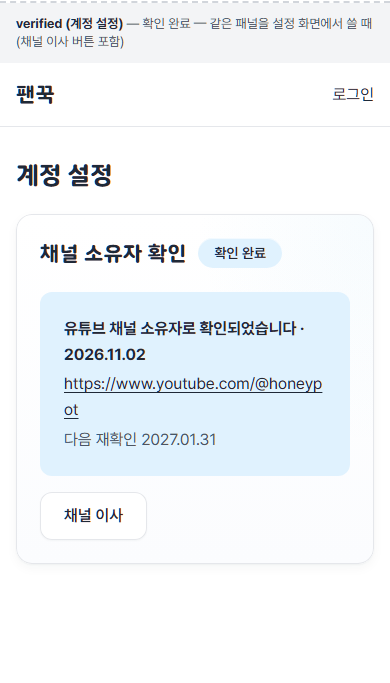
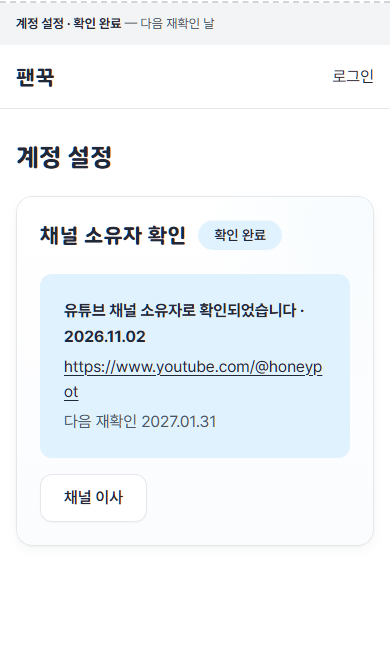
docs(fankkuk): 채널 확인 시안 새로 짬 — 팬꾹 링크는 4단계에서만 만들기, 옛 구역·캡처 정리

diff --git a/projects/fankkuk/docs/design/mockups/channel-link-verify-20261102/index.html b/projects/fankkuk/docs/design/mockups/channel-link-verify-20261102/index.html
@@ -1,28 +1,23 @@
 <!doctype html>
 <html lang="ko"><head><meta charset="utf-8"><meta name="viewport" content="width=device-width,initial-scale=1">
-<title>채널 확인 — 선물 링크 게시 확인 시안 (2026-11-02)</title>
+<title>채널 확인 시안 (2026-11-02)</title>
 <link rel="stylesheet" href="https://cdn.jsdelivr.net/gh/orioncactus/pretendard@v1.3.9/dist/web/variable/pretendardvariable.min.css">
 <link rel="stylesheet" href="styles.css"></head><body>
-<!-- 근거: docs/ux/pages/signup.md · handle.md 「2026-11-02 채널 확인 개정안」. 쪽지 코드 칸 없음. 새 토큰·부품 없음(styles.css 는 v43 가입 시안 CSS 를 그대로 복사). 운영자 화면은 admin.html -->
-<header class="v-head"><h1 class="t-title">채널 확인 — 선물 링크 게시 확인</h1><ol><li><a href="#signup-2">가입 2단계</a></li><li><a href="#link-needed">link_needed (계정 설정)</a></li><li><a href="#idle-empty">확인 전 (주소 전)</a></li><li><a href="#idle-youtube">확인 전 (주소 뒤)</a></li><li><a href="#waiting">요청 완료</a></li><li><a href="#rejected">rejected</a></li><li><a href="#verified">verified (가입 4단계)</a></li><li><a href="#locked">locked</a></li><li><a href="#acct-verified">verified (계정 설정)</a></li><li><a href="#acct-recheck">recheck_missing</a></li><li><a href="#profile-verifying">verifying (선물 링크 페이지 fankkuk.com/haru)</a></li><li><a href="admin.html">운영자 화면(admin.html)</a></li></ol></header>
-<section class="v-state" id="signup-2"><span class="v-label"><b>가입 2단계 (크리에이터)</b> — 바뀌는 칸만: 칸 설명은 소제목 바로 아래(입력 칸 위), 꼴 규칙은 입력 칸 아래 · 공개 이름 칸 없음(닉네임으로 합침 — 다음 작업) · 팬꾹 링크 칸 새로</span><div class="v-bar"><b>팬꾹</b><span>로그인</span></div><main><section class="su-page"><div class="container auth su-box"><div class="head"><h1 class="t-title">회원가입</h1></div><nav class="su-steps-wrap" aria-label="가입 단계"><ol class="su-steps su-four"><li><span class="su-st is-done"><span class="su-dot" aria-hidden="true"><svg width="16" height="16" viewBox="0 0 24 24" aria-hidden="true"><path d="m5 12.5 4.5 4.5L19 7" fill="none" stroke="currentColor" stroke-width="3.5" stroke-linecap="round" stroke-linejoin="round"/></svg></span><span class="su-lbl">유형 선택</span></span></li><li><span class="su-st" aria-current="step"><span class="su-dot" aria-hidden="true">2</span><span class="su-lbl">정보 입력</span></span></li><li><span class="su-st"><span class="su-dot" aria-hidden="true">3</span><span class="su-lbl">휴대폰 확인</span></span></li><li><span class="su-st"><span class="su-dot" aria-hidden="true">4</span><span class="su-lbl">채널 확인</span></span></li><li><span class="su-st"><span class="su-dot" aria-hidden="true">5</span><span class="su-lbl">승인 서명</span></span></li></ol></nav><form class="card" onsubmit="return false"><fieldset class="su-step"><legend class="sr-only">정보 입력</legend>
-<h3 class="t-card" style="margin-bottom:16px">계정</h3><div class="form">
+<!-- 2026-11-02 새로 짬: 옛 구역 없음. 팬꾹 링크는 4단계에서만 만든다(2단계 칸 없음). 운영자 화면은 admin.html -->
+<header class="v-head"><h1 class="t-title">채널 확인 시안</h1><ol><li><a href="#signup-2">가입 2단계</a></li><li><a href="#s4-make">4단계 · 링크 만들기 전</a></li><li><a href="#s4-ready">4단계 · 요청 전</a></li><li><a href="#s4-sent">4단계 · 요청 완료</a></li><li><a href="#s4-rejected">4단계 · 반려</a></li><li><a href="#s4-locked">4단계 · 더 요청 못 함</a></li><li><a href="#acct-verified">계정 설정 · 확인 완료</a></li><li><a href="#acct-recheck">계정 설정 · 링크 다시 확인</a></li><li><a href="#profile-verifying">크리에이터 페이지 · 채널 확인 중</a></li><li><a href="admin.html">운영자 화면</a></li></ol></header>
+<section class="v-state" id="signup-2"><span class="v-label"><b>가입 2단계 (크리에이터)</b> — 바뀌는 칸만. 칸 설명은 소제목 아래, 규칙은 입력 칸 아래. 팬꾹 링크는 여기서 만들지 않는다(4단계)</span><div class="v-bar"><b>팬꾹</b><span>로그인</span></div><main><section class="su-page"><div class="container auth su-box"><div class="head"><h1 class="t-title">회원가입</h1></div><nav class="su-steps-wrap" aria-label="가입 단계"><ol class="su-steps su-four"><li><span class="su-st is-done"><span class="su-dot" aria-hidden="true"><svg width="16" height="16" viewBox="0 0 24 24" aria-hidden="true"><path d="m5 12.5 4.5 4.5L19 7" fill="none" stroke="currentColor" stroke-width="3.5" stroke-linecap="round" stroke-linejoin="round"/></svg></span><span class="su-lbl">유형 선택</span></span></li><li><span class="su-st" aria-current="step"><span class="su-dot" aria-hidden="true">2</span><span class="su-lbl">정보 입력</span></span></li><li><span class="su-st"><span class="su-dot" aria-hidden="true">3</span><span class="su-lbl">휴대폰 확인</span></span></li><li><span class="su-st"><span class="su-dot" aria-hidden="true">4</span><span class="su-lbl">채널 확인</span></span></li><li><span class="su-st"><span class="su-dot" aria-hidden="true">5</span><span class="su-lbl">승인 서명</span></span></li></ol></nav><form class="card" onsubmit="return false"><fieldset class="su-step"><legend class="sr-only">정보 입력</legend><h3 class="t-card" style="margin-bottom:16px">계정</h3><div class="form">
 <div><label class="label" for="s2-id">아이디</label><p class="v-desc">로그인에 사용하는 아이디입니다. 다른 사람에게는 보이지 않습니다.</p><input class="field" id="s2-id" value="haru_game"><p class="hint">영문 소문자·숫자·밑줄(_) 4~20자 · 가입 후 변경할 수 없습니다.</p></div>
 <div><label class="label" for="s2-nick">닉네임</label><p class="v-desc">팬꾹에서 다른 사람에게 표시되는 이름입니다.</p><input class="field" id="s2-nick" value="하루"><p class="hint">최대 12자 · 이미 사용 중인 닉네임은 사용할 수 없습니다.</p></div>
 <p class="hint" style="margin:0">이메일·비밀번호는 지금 문구를 유지합니다.</p></div>
 <h3 class="t-card" style="margin:32px 0 16px">채널 정보</h3><div class="form">
 <div><label class="label" for="s2-ch">채널 이름</label><p class="v-desc">방송 플랫폼에 표시된 채널 이름을 그대로 입력해 주세요. 채널 확인 시 일치하는지 확인합니다.</p><input class="field" id="s2-ch" placeholder="예: 꿀단지TV" value="하루의 놀이터"></div>
-<div><label class="label" for="s2-link">팬꾹 링크</label><p class="v-desc">외부에서 크리에이터님의 팬꾹으로 안내할 때 사용할 주소입니다.</p><div class="vp-handle"><span class="pre">fankkuk.com/</span><input class="field" id="s2-link" placeholder="haru" value="haru"></div><p class="hint">로그인 아이디와 다르게 정해 주세요. 가입 후 30일 동안은 변경할 수 없습니다.</p></div>
-<p class="hint" style="margin:0">팬덤 이름·태그는 지금 문구를 유지합니다.</p></div>
-</fieldset><div class="su-step-actions"><button class="btn btn--line" type="button">이전</button><button class="btn su-next" type="submit">다음</button></div></form></div></section></main></section>
-<section class="v-state" id="link-needed"><span class="v-label"><b>link_needed (계정 설정)</b> — 가입 2단계에서 팬꾹 링크를 만들기 전에 가입한 기존 크리에이터만. 새로 가입하는 사람은 가입 4단계에서 이 상태를 보지 않는다. 「만들기」를 누르면 「정하면 30일 동안 바꿀 수 없어요」 확인 창(설정 화면과 같음)</span><div class="v-bar"><b>팬꾹</b><span>로그인</span></div><main><div class="v-wrap720"><div class="head" style="margin-bottom:24px"><h1 class="t-title">계정 설정</h1></div><section class="card"><fieldset class="su-step" style="margin:0"><legend class="sr-only">채널 소유자 확인</legend><div class="vp-head"><h2 class="t-card">채널 소유자 확인</h2><span class="tag">확인 전</span></div><p class="sub su-lead">다른 사람이 내 채널로 가입하지 못하도록, 채널 소유자를 확인해 주세요.<br>팬이 선물을 보낼 수 있게 팬꾹 링크를 채널 소개에 올려 주세요. 올라와 있으면 채널 확인도 같이 끝나요.</p><div class="vp-box"><label class="vp-label" for="h0">내 팬꾹 링크</label><div class="vp-handle"><span class="pre">fankkuk.com/</span><input class="field" id="h0" placeholder="haru"><button class="btn btn--sm" type="button">만들기</button></div></div></fieldset></section></div></main></section>
-<section class="v-state" id="idle-empty"><span class="v-label"><b>idle (1/2)</b> — 확인 전 — ① 2단계 채널 이름 ② 팬꾹 링크 올리기(예시) ③ 채널 주소 ④ 요청. 주소를 넣기 전에는 요청 버튼이 꺼짐</span><div class="v-bar"><b>팬꾹</b><span>로그인</span></div><main><section class="su-page"><div class="container auth su-box"><div class="head"><h1 class="t-title">회원가입</h1></div><nav class="su-steps-wrap" aria-label="가입 단계"><ol class="su-steps su-four"><li><span class="su-st is-done"><span class="su-dot" aria-hidden="true"><svg width="16" height="16" viewBox="0 0 24 24" aria-hidden="true"><path d="m5 12.5 4.5 4.5L19 7" fill="none" stroke="currentColor" stroke-width="3.5" stroke-linecap="round" stroke-linejoin="round"/></svg></span><span class="su-lbl">유형 선택</span></span></li><li><span class="su-st is-done"><span class="su-dot" aria-hidden="true"><svg width="16" height="16" viewBox="0 0 24 24" aria-hidden="true"><path d="m5 12.5 4.5 4.5L19 7" fill="none" stroke="currentColor" stroke-width="3.5" stroke-linecap="round" stroke-linejoin="round"/></svg></span><span class="su-lbl">정보 입력</span></span></li><li><span class="su-st is-done"><span class="su-dot" aria-hidden="true"><svg width="16" height="16" viewBox="0 0 24 24" aria-hidden="true"><path d="m5 12.5 4.5 4.5L19 7" fill="none" stroke="currentColor" stroke-width="3.5" stroke-linecap="round" stroke-linejoin="round"/></svg></span><span class="su-lbl">휴대폰 확인</span></span></li><li><span class="su-st" aria-current="step"><span class="su-dot" aria-hidden="true">4</span><span class="su-lbl">채널 확인</span></span></li><li><span class="su-st"><span class="su-dot" aria-hidden="true">5</span><span class="su-lbl">승인 서명</span></span></li></ol></nav><form class="card" onsubmit="return false"><fieldset class="su-step"><legend class="sr-only">채널 소유자 확인</legend><div class="vp-head"><h2 class="t-card">채널 소유자 확인</h2><span class="tag ">확인 전</span></div><p class="sub su-lead">다른 사람이 내 채널로 가입하지 못하도록, 채널 소유자를 확인해 주세요.</p><div class="vp-kv v-name"><span class="k">채널 이름</span><strong>하루의 놀이터</strong></div><div class="v-step"><p class="vp-label"><span class="v-no">1</span>채널 소개에 팬꾹 링크를 올려 주세요</p><div class="vp-box"><div class="vp-code-row"><span class="vp-link">fankkuk.com/haru</span><button class="btn btn--line btn--sm" type="button">복사</button></div><div class="v-example"><span class="k">예시</span><p>게임 방송하는 하루입니다. 선물은 여기로 보내 주세요<br><b>fankkuk.com/haru</b></p></div></div></div><div class="v-step"><label class="vp-label" for="a1"><span class="v-no">2</span>팬꾹 링크를 올린 채널 주소를 입력해 주세요</label><input class="field" id="a1" inputmode="url" placeholder="https://www.youtube.com/@핸들" value=""><ul class="vp-examples"><li>유튜브 <code>https://www.youtube.com/@핸들</code></li><li>치지직 <code>https://chzzk.naver.com/채널ID</code></li><li>SOOP <code>https://www.sooplive.co.kr/station/아이디</code></li></ul></div><div class="vp-steps"><button class="btn" type="button" aria-disabled="true">채널 확인 요청</button></div></fieldset><div class="v-kakao-actions v-three"><button class="btn btn--line" type="button">이전</button><button class="btn btn--line" type="button">나중에 하기</button><button class="btn su-next v-main" type="submit" aria-disabled="true">다음</button></div></form></div></section></main></section>
-<section class="v-state" id="idle-youtube"><span class="v-label"><b>idle (2/2)</b> — 확인 전 — 주소를 넣으면 요청 버튼이 켜짐</span><div class="v-bar"><b>팬꾹</b><span>로그인</span></div><main><section class="su-page"><div class="container auth su-box"><div class="head"><h1 class="t-title">회원가입</h1></div><nav class="su-steps-wrap" aria-label="가입 단계"><ol class="su-steps su-four"><li><span class="su-st is-done"><span class="su-dot" aria-hidden="true"><svg width="16" height="16" viewBox="0 0 24 24" aria-hidden="true"><path d="m5 12.5 4.5 4.5L19 7" fill="none" stroke="currentColor" stroke-width="3.5" stroke-linecap="round" stroke-linejoin="round"/></svg></span><span class="su-lbl">유형 선택</span></span></li><li><span class="su-st is-done"><span class="su-dot" aria-hidden="true"><svg width="16" height="16" viewBox="0 0 24 24" aria-hidden="true"><path d="m5 12.5 4.5 4.5L19 7" fill="none" stroke="currentColor" stroke-width="3.5" stroke-linecap="round" stroke-linejoin="round"/></svg></span><span class="su-lbl">정보 입력</span></span></li><li><span class="su-st is-done"><span class="su-dot" aria-hidden="true"><svg width="16" height="16" viewBox="0 0 24 24" aria-hidden="true"><path d="m5 12.5 4.5 4.5L19 7" fill="none" stroke="currentColor" stroke-width="3.5" stroke-linecap="round" stroke-linejoin="round"/></svg></span><span class="su-lbl">휴대폰 확인</span></span></li><li><span class="su-st" aria-current="step"><span class="su-dot" aria-hidden="true">4</span><span class="su-lbl">채널 확인</span></span></li><li><span class="su-st"><span class="su-dot" aria-hidden="true">5</span><span class="su-lbl">승인 서명</span></span></li></ol></nav><form class="card" onsubmit="return false"><fieldset class="su-step"><legend class="sr-only">채널 소유자 확인</legend><div class="vp-head"><h2 class="t-card">채널 소유자 확인</h2><span class="tag ">확인 전</span></div><p class="sub su-lead">다른 사람이 내 채널로 가입하지 못하도록, 채널 소유자를 확인해 주세요.</p><div class="vp-kv v-name"><span class="k">채널 이름</span><strong>하루의 놀이터</strong></div><div class="v-step"><p class="vp-label"><span class="v-no">1</span>채널 소개에 팬꾹 링크를 올려 주세요</p><div class="vp-box"><div class="vp-code-row"><span class="vp-link">fankkuk.com/haru</span><button class="btn btn--line btn--sm" type="button">복사</button></div><div class="v-example"><span class="k">예시</span><p>게임 방송하는 하루입니다. 선물은 여기로 보내 주세요<br><b>fankkuk.com/haru</b></p></div></div></div><div class="v-step"><label class="vp-label" for="a2"><span class="v-no">2</span>팬꾹 링크를 올린 채널 주소를 입력해 주세요</label><input class="field" id="a2" inputmode="url" placeholder="https://www.youtube.com/@핸들" value="https://www.youtube.com/@honeypot"><ul class="vp-examples"><li>유튜브 <code>https://www.youtube.com/@핸들</code></li><li>치지직 <code>https://chzzk.naver.com/채널ID</code></li><li>SOOP <code>https://www.sooplive.co.kr/station/아이디</code></li></ul></div><div class="vp-steps"><button class="btn" type="button">채널 확인 요청</button></div></fieldset><div class="v-kakao-actions v-three"><button class="btn btn--line" type="button">이전</button><button class="btn btn--line" type="button">나중에 하기</button><button class="btn su-next v-main" type="submit" aria-disabled="true">다음</button></div></form></div></section></main></section>
-<section class="v-state" id="waiting"><span class="v-label"><b>waiting</b> — 채널 확인 요청 완료 — 이 단계는 끝나서 「이전 | 다음」만(나중에 하기 없음). 운영자가 확인하면 확인 완료로 바뀐다</span><div class="v-bar"><b>팬꾹</b><span>로그인</span></div><main><section class="su-page"><div class="container auth su-box"><div class="head"><h1 class="t-title">회원가입</h1></div><nav class="su-steps-wrap" aria-label="가입 단계"><ol class="su-steps su-four"><li><span class="su-st is-done"><span class="su-dot" aria-hidden="true"><svg width="16" height="16" viewBox="0 0 24 24" aria-hidden="true"><path d="m5 12.5 4.5 4.5L19 7" fill="none" stroke="currentColor" stroke-width="3.5" stroke-linecap="round" stroke-linejoin="round"/></svg></span><span class="su-lbl">유형 선택</span></span></li><li><span class="su-st is-done"><span class="su-dot" aria-hidden="true"><svg width="16" height="16" viewBox="0 0 24 24" aria-hidden="true"><path d="m5 12.5 4.5 4.5L19 7" fill="none" stroke="currentColor" stroke-width="3.5" stroke-linecap="round" stroke-linejoin="round"/></svg></span><span class="su-lbl">정보 입력</span></span></li><li><span class="su-st is-done"><span class="su-dot" aria-hidden="true"><svg width="16" height="16" viewBox="0 0 24 24" aria-hidden="true"><path d="m5 12.5 4.5 4.5L19 7" fill="none" stroke="currentColor" stroke-width="3.5" stroke-linecap="round" stroke-linejoin="round"/></svg></span><span class="su-lbl">휴대폰 확인</span></span></li><li><span class="su-st" aria-current="step"><span class="su-dot" aria-hidden="true">4</span><span class="su-lbl">채널 확인</span></span></li><li><span class="su-st"><span class="su-dot" aria-hidden="true">5</span><span class="su-lbl">승인 서명</span></span></li></ol></nav><form class="card" onsubmit="return false"><fieldset class="su-step"><legend class="sr-only">채널 소유자 확인</legend><div class="vp-head"><h2 class="t-card">채널 소유자 확인</h2><span class="tag tag--warn">확인 대기</span></div><div class="vp-box v-done-box"><p class="vp-label" style="display:flex;align-items:center;gap:6px"><svg width="20" height="20" viewBox="0 0 24 24" aria-hidden="true"><circle cx="12" cy="12" r="10" fill="none" stroke="currentColor" stroke-width="2"/><path d="m7.5 12.5 3 3 6-6.5" fill="none" stroke="currentColor" stroke-width="2.4" stroke-linecap="round" stroke-linejoin="round"/></svg>채널 확인 요청을 보냈습니다</p><p>운영자가 채널을 확인하면 채널 확인이 완료됩니다.</p><div class="vp-kv"><span class="k">채널 이름</span><strong>하루의 놀이터</strong></div><div class="vp-kv"><span class="k">채널 주소</span><strong style="overflow-wrap:anywhere">https://www.youtube.com/@honeypot</strong></div><div class="vp-kv"><span class="k">팬꾹 링크</span><strong>fankkuk.com/haru</strong></div><div><button class="btn btn--text btn--sm" type="button">요청 취소</button></div></div></fieldset><div class="su-step-actions"><button class="btn btn--line" type="button">이전</button><button class="btn su-next" type="submit">다음</button></div></form></div></section></main></section>
-<section class="v-state" id="rejected"><span class="v-label"><b>rejected</b> — 반려 — 사유 한 줄 + 남은 요청 횟수, 아래는 확인 전과 같은 순서</span><div class="v-bar"><b>팬꾹</b><span>로그인</span></div><main><section class="su-page"><div class="container auth su-box"><div class="head"><h1 class="t-title">회원가입</h1></div><nav class="su-steps-wrap" aria-label="가입 단계"><ol class="su-steps su-four"><li><span class="su-st is-done"><span class="su-dot" aria-hidden="true"><svg width="16" height="16" viewBox="0 0 24 24" aria-hidden="true"><path d="m5 12.5 4.5 4.5L19 7" fill="none" stroke="currentColor" stroke-width="3.5" stroke-linecap="round" stroke-linejoin="round"/></svg></span><span class="su-lbl">유형 선택</span></span></li><li><span class="su-st is-done"><span class="su-dot" aria-hidden="true"><svg width="16" height="16" viewBox="0 0 24 24" aria-hidden="true"><path d="m5 12.5 4.5 4.5L19 7" fill="none" stroke="currentColor" stroke-width="3.5" stroke-linecap="round" stroke-linejoin="round"/></svg></span><span class="su-lbl">정보 입력</span></span></li><li><span class="su-st is-done"><span class="su-dot" aria-hidden="true"><svg width="16" height="16" viewBox="0 0 24 24" aria-hidden="true"><path d="m5 12.5 4.5 4.5L19 7" fill="none" stroke="currentColor" stroke-width="3.5" stroke-linecap="round" stroke-linejoin="round"/></svg></span><span class="su-lbl">휴대폰 확인</span></span></li><li><span class="su-st" aria-current="step"><span class="su-dot" aria-hidden="true">4</span><span class="su-lbl">채널 확인</span></span></li><li><span class="su-st"><span class="su-dot" aria-hidden="true">5</span><span class="su-lbl">승인 서명</span></span></li></ol></nav><form class="card" onsubmit="return false"><fieldset class="su-step"><legend class="sr-only">채널 소유자 확인</legend><div class="vp-head"><h2 class="t-card">채널 소유자 확인</h2><span class="tag tag--danger">반려</span></div><div class="vp-box" style="margin-bottom:24px"><p class="vp-rej"><svg width="20" height="20" viewBox="0 0 24 24" aria-hidden="true"><circle cx="12" cy="12" r="10" fill="none" stroke="currentColor" stroke-width="2"/><path d="M12 7v6M12 16.5v.5" stroke="currentColor" stroke-width="2.4" stroke-linecap="round"/></svg>팬꾹 링크를 찾지 못함</p><p class="sub">남은 요청 횟수: 2회</p></div><div class="vp-kv v-name"><span class="k">채널 이름</span><strong>하루의 놀이터</strong></div><div class="v-step"><p class="vp-label"><span class="v-no">1</span>채널 소개에 팬꾹 링크를 올려 주세요</p><div class="vp-box"><div class="vp-code-row"><span class="vp-link">fankkuk.com/haru</span><button class="btn btn--line btn--sm" type="button">복사</button></div><div class="v-example"><span class="k">예시</span><p>게임 방송하는 하루입니다. 선물은 여기로 보내 주세요<br><b>fankkuk.com/haru</b></p></div></div></div><div class="v-step"><label class="vp-label" for="a4"><span class="v-no">2</span>팬꾹 링크를 올린 채널 주소를 입력해 주세요</label><input class="field" id="a4" inputmode="url" placeholder="https://www.youtube.com/@핸들" value="https://www.youtube.com/@honeypot"><ul class="vp-examples"><li>유튜브 <code>https://www.youtube.com/@핸들</code></li><li>치지직 <code>https://chzzk.naver.com/채널ID</code></li><li>SOOP <code>https://www.sooplive.co.kr/station/아이디</code></li></ul></div><div class="vp-steps"><button class="btn" type="button">다시 채널 확인 요청</button></div></fieldset><div class="v-kakao-actions v-three"><button class="btn btn--line" type="button">이전</button><button class="btn btn--line" type="button">나중에 하기</button><button class="btn su-next v-main" type="submit" aria-disabled="true">다음</button></div></form></div></section></main></section>
-<section class="v-state" id="verified"><span class="v-label"><b>verified (가입 4단계)</b> — 확인 완료 — 「다음」이 켜짐, 다음 재확인 날 한 줄</span><div class="v-bar"><b>팬꾹</b><span>로그인</span></div><main><section class="su-page"><div class="container auth su-box"><div class="head"><h1 class="t-title">회원가입</h1></div><nav class="su-steps-wrap" aria-label="가입 단계"><ol class="su-steps su-four"><li><span class="su-st is-done"><span class="su-dot" aria-hidden="true"><svg width="16" height="16" viewBox="0 0 24 24" aria-hidden="true"><path d="m5 12.5 4.5 4.5L19 7" fill="none" stroke="currentColor" stroke-width="3.5" stroke-linecap="round" stroke-linejoin="round"/></svg></span><span class="su-lbl">유형 선택</span></span></li><li><span class="su-st is-done"><span class="su-dot" aria-hidden="true"><svg width="16" height="16" viewBox="0 0 24 24" aria-hidden="true"><path d="m5 12.5 4.5 4.5L19 7" fill="none" stroke="currentColor" stroke-width="3.5" stroke-linecap="round" stroke-linejoin="round"/></svg></span><span class="su-lbl">정보 입력</span></span></li><li><span class="su-st is-done"><span class="su-dot" aria-hidden="true"><svg width="16" height="16" viewBox="0 0 24 24" aria-hidden="true"><path d="m5 12.5 4.5 4.5L19 7" fill="none" stroke="currentColor" stroke-width="3.5" stroke-linecap="round" stroke-linejoin="round"/></svg></span><span class="su-lbl">휴대폰 확인</span></span></li><li><span class="su-st" aria-current="step"><span class="su-dot" aria-hidden="true">4</span><span class="su-lbl">채널 확인</span></span></li><li><span class="su-st"><span class="su-dot" aria-hidden="true">5</span><span class="su-lbl">승인 서명</span></span></li></ol></nav><form class="card" onsubmit="return false"><fieldset class="su-step"><legend class="sr-only">채널 소유자 확인</legend><div class="vp-head"><h2 class="t-card">채널 소유자 확인</h2><span class="tag tag--success">확인 완료</span></div><div class="vp-done"><strong>유튜브 채널 소유자로 확인되었습니다 · 2026.11.02</strong><a href="#">https://www.youtube.com/@honeypot</a><span class="sub">다음 재확인 2027.01.31</span></div></fieldset><div class="su-step-actions"><button class="btn btn--line" type="button">이전</button><button class="btn su-next" type="submit">다음</button></div></form></div></section></main></section>
-<section class="v-state" id="locked"><span class="v-label"><b>locked</b> — 그 채널로 끝난 요청 3번 — 더 요청할 수 없음</span><div class="v-bar"><b>팬꾹</b><span>로그인</span></div><main><section class="su-page"><div class="container auth su-box"><div class="head"><h1 class="t-title">회원가입</h1></div><nav class="su-steps-wrap" aria-label="가입 단계"><ol class="su-steps su-four"><li><span class="su-st is-done"><span class="su-dot" aria-hidden="true"><svg width="16" height="16" viewBox="0 0 24 24" aria-hidden="true"><path d="m5 12.5 4.5 4.5L19 7" fill="none" stroke="currentColor" stroke-width="3.5" stroke-linecap="round" stroke-linejoin="round"/></svg></span><span class="su-lbl">유형 선택</span></span></li><li><span class="su-st is-done"><span class="su-dot" aria-hidden="true"><svg width="16" height="16" viewBox="0 0 24 24" aria-hidden="true"><path d="m5 12.5 4.5 4.5L19 7" fill="none" stroke="currentColor" stroke-width="3.5" stroke-linecap="round" stroke-linejoin="round"/></svg></span><span class="su-lbl">정보 입력</span></span></li><li><span class="su-st is-done"><span class="su-dot" aria-hidden="true"><svg width="16" height="16" viewBox="0 0 24 24" aria-hidden="true"><path d="m5 12.5 4.5 4.5L19 7" fill="none" stroke="currentColor" stroke-width="3.5" stroke-linecap="round" stroke-linejoin="round"/></svg></span><span class="su-lbl">휴대폰 확인</span></span></li><li><span class="su-st" aria-current="step"><span class="su-dot" aria-hidden="true">4</span><span class="su-lbl">채널 확인</span></span></li><li><span class="su-st"><span class="su-dot" aria-hidden="true">5</span><span class="su-lbl">승인 서명</span></span></li></ol></nav><form class="card" onsubmit="return false"><fieldset class="su-step"><legend class="sr-only">채널 소유자 확인</legend><div class="vp-head"><h2 class="t-card">채널 소유자 확인</h2><span class="tag">신청 마감</span></div><div class="v-locked"><p class="vp-label">이 채널로는 더 신청할 수 없어요. 1:1 문의로 알려 주세요</p><div><button class="btn btn--line" type="button">1:1 문의</button></div></div></fieldset><div class="v-kakao-actions v-three"><button class="btn btn--line" type="button">이전</button><button class="btn btn--line" type="button">나중에 하기</button><button class="btn su-next v-main" type="submit" aria-disabled="true">다음</button></div></form></div></section></main></section>
-<section class="v-state" id="acct-verified"><span class="v-label"><b>verified (계정 설정)</b> — 확인 완료 — 같은 패널을 설정 화면에서 쓸 때(채널 이사 버튼 포함)</span><div class="v-bar"><b>팬꾹</b><span>로그인</span></div><main><div class="v-wrap720"><div class="head" style="margin-bottom:24px"><h1 class="t-title">계정 설정</h1></div><section class="card"><fieldset class="su-step" style="margin:0"><legend class="sr-only">채널 소유자 확인</legend><div class="vp-head"><h2 class="t-card">채널 소유자 확인</h2><span class="tag tag--success">확인 완료</span></div><div class="vp-done"><strong>유튜브 채널 소유자로 확인되었습니다 · 2026.11.02</strong><a href="#">https://www.youtube.com/@honeypot</a><span class="sub">다음 재확인 2027.01.31</span></div><div style="margin-top:16px"><button class="btn btn--line" type="button">채널 이사</button></div></fieldset></section></div></main></section>
-<section class="v-state" id="acct-recheck"><span class="v-label"><b>recheck_missing</b> — 재확인에서 링크를 못 찾음(유예 중) — 계정 설정</span><div class="v-bar"><b>팬꾹</b><span>로그인</span></div><main><div class="v-wrap720"><div class="head" style="margin-bottom:24px"><h1 class="t-title">계정 설정</h1></div><section class="card"><fieldset class="su-step" style="margin:0"><legend class="sr-only">채널 소유자 확인</legend><div class="vp-head"><h2 class="t-card">채널 소유자 확인</h2><span class="tag tag--warn">링크 확인 필요</span></div><div class="vp-box"><p class="vp-label">채널 소개에서 팬꾹 링크를 찾지 못했어요. 11월 16일까지 다시 올려 주세요</p><div class="vp-kv"><span class="k">찾을 링크</span><div class="vp-code-row"><span class="vp-link">fankkuk.com/haru</span><button class="btn btn--line btn--sm" type="button">복사</button></div></div><div class="vp-actions"><button class="btn" type="button">다시 확인 요청</button></div></div></fieldset></section></div></main></section>
-<section class="v-state" id="profile-verifying"><span class="v-label"><b>verifying (선물 링크 페이지 fankkuk.com/haru)</b> — 채널 확인 중 — 팬이 볼 때. 팔로우·채널 아이콘·평균 승인 시간 없음</span><div class="v-bar"><b>팬꾹</b><span>로그인</span></div><main class="pf"><div class="pf-cover" aria-hidden="true"><i class="b"></i><i class="a"></i></div><div class="pf-body"><div class="pf-face"><img src="../part4-v4-20261101/assets/creator-cat.webp" alt="" width="112" height="112"></div><div class="pf-name"><h1>하루</h1></div><p class="pf-intro">게임 방송을 해요.</p><p class="pf-wait" role="status">채널 확인이 끝나면 선물을 보낼 수 있어요</p></div></main></section>
+<p class="hint" style="margin:0">팬덤 이름·태그는 지금 문구를 유지합니다.</p></div></fieldset><div class="su-step-actions"><button class="btn btn--line" type="button">이전</button><button class="btn su-next" type="submit">다음</button></div></form></div></section></main></section>
+<section class="v-state" id="s4-make"><span class="v-label"><b>4단계 · 링크 만들기 전</b> — ① 팬꾹 링크를 여기서 만든다(누르면 「만든 뒤 30일 동안 변경할 수 없습니다」 확인 창). 만들기 전에는 ②·요청이 꺼짐</span><div class="v-bar"><b>팬꾹</b><span>로그인</span></div><main><section class="su-page"><div class="container auth su-box"><div class="head"><h1 class="t-title">회원가입</h1></div><nav class="su-steps-wrap" aria-label="가입 단계"><ol class="su-steps su-four"><li><span class="su-st is-done"><span class="su-dot" aria-hidden="true"><svg width="16" height="16" viewBox="0 0 24 24" aria-hidden="true"><path d="m5 12.5 4.5 4.5L19 7" fill="none" stroke="currentColor" stroke-width="3.5" stroke-linecap="round" stroke-linejoin="round"/></svg></span><span class="su-lbl">유형 선택</span></span></li><li><span class="su-st is-done"><span class="su-dot" aria-hidden="true"><svg width="16" height="16" viewBox="0 0 24 24" aria-hidden="true"><path d="m5 12.5 4.5 4.5L19 7" fill="none" stroke="currentColor" stroke-width="3.5" stroke-linecap="round" stroke-linejoin="round"/></svg></span><span class="su-lbl">정보 입력</span></span></li><li><span class="su-st is-done"><span class="su-dot" aria-hidden="true"><svg width="16" height="16" viewBox="0 0 24 24" aria-hidden="true"><path d="m5 12.5 4.5 4.5L19 7" fill="none" stroke="currentColor" stroke-width="3.5" stroke-linecap="round" stroke-linejoin="round"/></svg></span><span class="su-lbl">휴대폰 확인</span></span></li><li><span class="su-st" aria-current="step"><span class="su-dot" aria-hidden="true">4</span><span class="su-lbl">채널 확인</span></span></li><li><span class="su-st"><span class="su-dot" aria-hidden="true">5</span><span class="su-lbl">승인 서명</span></span></li></ol></nav><form class="card" onsubmit="return false"><fieldset class="su-step"><legend class="sr-only">채널 소유자 확인</legend><div class="vp-head"><h2 class="t-card">채널 소유자 확인</h2><span class="tag ">확인 전</span></div><p class="sub su-lead">다른 사람이 내 채널로 가입하지 못하도록, 채널 소유자를 확인해 주세요.</p><div class="vp-kv v-name"><span class="k">채널 이름</span><strong>하루의 놀이터</strong></div><div class="v-step"><label class="vp-label" for="lk"><span class="v-no">1</span>팬꾹 링크를 만들어 주세요</label><p class="v-desc">외부에서 크리에이터님의 팬꾹으로 안내할 때 사용할 주소입니다.</p><div class="vp-handle"><span class="pre">fankkuk.com/</span><input class="field" id="lk" placeholder="haru"><button class="btn btn--sm" type="button">만들기</button></div><p class="hint">로그인 아이디와 다르게 정해 주세요. 만든 뒤 30일 동안은 변경할 수 없습니다.</p></div><div class="v-step"><label class="vp-label" for="a1"><span class="v-no">2</span>팬꾹 링크를 올린 채널 주소를 입력해 주세요</label><input class="field" id="a1" inputmode="url" placeholder="https://www.youtube.com/@핸들" value="" disabled><ul class="vp-examples"><li>유튜브 <code>https://www.youtube.com/@핸들</code></li><li>치지직 <code>https://chzzk.naver.com/채널ID</code></li><li>SOOP <code>https://www.sooplive.co.kr/station/아이디</code></li></ul></div><div class="vp-steps"><button class="btn" type="button" aria-disabled="true">채널 확인 요청</button></div></fieldset><div class="v-kakao-actions v-three"><button class="btn btn--line" type="button">이전</button><button class="btn btn--line" type="button">나중에 하기</button><button class="btn su-next v-main" type="submit" aria-disabled="true">다음</button></div></form></div></section></main></section>
+<section class="v-state" id="s4-ready"><span class="v-label"><b>4단계 · 요청 전</b> — 링크를 만들면 ①이 「올려 주세요 + 복사 + 예시」로 바뀐다. 주소를 넣으면 요청이 켜짐</span><div class="v-bar"><b>팬꾹</b><span>로그인</span></div><main><section class="su-page"><div class="container auth su-box"><div class="head"><h1 class="t-title">회원가입</h1></div><nav class="su-steps-wrap" aria-label="가입 단계"><ol class="su-steps su-four"><li><span class="su-st is-done"><span class="su-dot" aria-hidden="true"><svg width="16" height="16" viewBox="0 0 24 24" aria-hidden="true"><path d="m5 12.5 4.5 4.5L19 7" fill="none" stroke="currentColor" stroke-width="3.5" stroke-linecap="round" stroke-linejoin="round"/></svg></span><span class="su-lbl">유형 선택</span></span></li><li><span class="su-st is-done"><span class="su-dot" aria-hidden="true"><svg width="16" height="16" viewBox="0 0 24 24" aria-hidden="true"><path d="m5 12.5 4.5 4.5L19 7" fill="none" stroke="currentColor" stroke-width="3.5" stroke-linecap="round" stroke-linejoin="round"/></svg></span><span class="su-lbl">정보 입력</span></span></li><li><span class="su-st is-done"><span class="su-dot" aria-hidden="true"><svg width="16" height="16" viewBox="0 0 24 24" aria-hidden="true"><path d="m5 12.5 4.5 4.5L19 7" fill="none" stroke="currentColor" stroke-width="3.5" stroke-linecap="round" stroke-linejoin="round"/></svg></span><span class="su-lbl">휴대폰 확인</span></span></li><li><span class="su-st" aria-current="step"><span class="su-dot" aria-hidden="true">4</span><span class="su-lbl">채널 확인</span></span></li><li><span class="su-st"><span class="su-dot" aria-hidden="true">5</span><span class="su-lbl">승인 서명</span></span></li></ol></nav><form class="card" onsubmit="return false"><fieldset class="su-step"><legend class="sr-only">채널 소유자 확인</legend><div class="vp-head"><h2 class="t-card">채널 소유자 확인</h2><span class="tag ">확인 전</span></div><p class="sub su-lead">다른 사람이 내 채널로 가입하지 못하도록, 채널 소유자를 확인해 주세요.</p><div class="vp-kv v-name"><span class="k">채널 이름</span><strong>하루의 놀이터</strong></div><div class="v-step"><p class="vp-label"><span class="v-no">1</span>채널 소개에 팬꾹 링크를 올려 주세요</p><div class="vp-box"><div class="vp-code-row"><span class="vp-link">fankkuk.com/haru</span><button class="btn btn--line btn--sm" type="button">복사</button></div><div class="v-example"><span class="k">예시</span><p>게임 방송하는 하루입니다. 선물은 여기로 보내 주세요<br><b>fankkuk.com/haru</b></p></div></div></div><div class="v-step"><label class="vp-label" for="a2"><span class="v-no">2</span>팬꾹 링크를 올린 채널 주소를 입력해 주세요</label><input class="field" id="a2" inputmode="url" placeholder="https://www.youtube.com/@핸들" value="https://www.youtube.com/@honeypot"><ul class="vp-examples"><li>유튜브 <code>https://www.youtube.com/@핸들</code></li><li>치지직 <code>https://chzzk.naver.com/채널ID</code></li><li>SOOP <code>https://www.sooplive.co.kr/station/아이디</code></li></ul></div><div class="vp-steps"><button class="btn" type="button">채널 확인 요청</button></div></fieldset><div class="v-kakao-actions v-three"><button class="btn btn--line" type="button">이전</button><button class="btn btn--line" type="button">나중에 하기</button><button class="btn su-next v-main" type="submit" aria-disabled="true">다음</button></div></form></div></section></main></section>
+<section class="v-state" id="s4-sent"><span class="v-label"><b>4단계 · 요청 완료</b> — 이 단계는 끝. 「이전 | 다음」만, 「다음」 켜짐. 운영자가 확인하면 확인 완료</span><div class="v-bar"><b>팬꾹</b><span>로그인</span></div><main><section class="su-page"><div class="container auth su-box"><div class="head"><h1 class="t-title">회원가입</h1></div><nav class="su-steps-wrap" aria-label="가입 단계"><ol class="su-steps su-four"><li><span class="su-st is-done"><span class="su-dot" aria-hidden="true"><svg width="16" height="16" viewBox="0 0 24 24" aria-hidden="true"><path d="m5 12.5 4.5 4.5L19 7" fill="none" stroke="currentColor" stroke-width="3.5" stroke-linecap="round" stroke-linejoin="round"/></svg></span><span class="su-lbl">유형 선택</span></span></li><li><span class="su-st is-done"><span class="su-dot" aria-hidden="true"><svg width="16" height="16" viewBox="0 0 24 24" aria-hidden="true"><path d="m5 12.5 4.5 4.5L19 7" fill="none" stroke="currentColor" stroke-width="3.5" stroke-linecap="round" stroke-linejoin="round"/></svg></span><span class="su-lbl">정보 입력</span></span></li><li><span class="su-st is-done"><span class="su-dot" aria-hidden="true"><svg width="16" height="16" viewBox="0 0 24 24" aria-hidden="true"><path d="m5 12.5 4.5 4.5L19 7" fill="none" stroke="currentColor" stroke-width="3.5" stroke-linecap="round" stroke-linejoin="round"/></svg></span><span class="su-lbl">휴대폰 확인</span></span></li><li><span class="su-st" aria-current="step"><span class="su-dot" aria-hidden="true">4</span><span class="su-lbl">채널 확인</span></span></li><li><span class="su-st"><span class="su-dot" aria-hidden="true">5</span><span class="su-lbl">승인 서명</span></span></li></ol></nav><form class="card" onsubmit="return false"><fieldset class="su-step"><legend class="sr-only">채널 소유자 확인</legend><div class="vp-head"><h2 class="t-card">채널 소유자 확인</h2><span class="tag tag--warn">확인 대기</span></div><div class="vp-box v-done-box"><p class="vp-label" style="display:flex;align-items:center;gap:6px"><svg width="20" height="20" viewBox="0 0 24 24" aria-hidden="true"><circle cx="12" cy="12" r="10" fill="none" stroke="currentColor" stroke-width="2"/><path d="m7.5 12.5 3 3 6-6.5" fill="none" stroke="currentColor" stroke-width="2.4" stroke-linecap="round" stroke-linejoin="round"/></svg>채널 확인 요청을 보냈습니다</p><p>운영자가 채널을 확인하면 채널 확인이 완료됩니다.</p><div class="vp-kv"><span class="k">채널 이름</span><strong>하루의 놀이터</strong></div><div class="vp-kv"><span class="k">채널 주소</span><strong style="overflow-wrap:anywhere">https://www.youtube.com/@honeypot</strong></div><div class="vp-kv"><span class="k">팬꾹 링크</span><strong>fankkuk.com/haru</strong></div><div><button class="btn btn--text btn--sm" type="button">요청 취소</button></div></div></fieldset><div class="su-step-actions"><button class="btn btn--line" type="button">이전</button><button class="btn su-next" type="submit">다음</button></div></form></div></section></main></section>
+<section class="v-state" id="s4-rejected"><span class="v-label"><b>4단계 · 반려</b> — 사유 한 줄 + 남은 요청 횟수, 아래는 요청 전과 같은 순서</span><div class="v-bar"><b>팬꾹</b><span>로그인</span></div><main><section class="su-page"><div class="container auth su-box"><div class="head"><h1 class="t-title">회원가입</h1></div><nav class="su-steps-wrap" aria-label="가입 단계"><ol class="su-steps su-four"><li><span class="su-st is-done"><span class="su-dot" aria-hidden="true"><svg width="16" height="16" viewBox="0 0 24 24" aria-hidden="true"><path d="m5 12.5 4.5 4.5L19 7" fill="none" stroke="currentColor" stroke-width="3.5" stroke-linecap="round" stroke-linejoin="round"/></svg></span><span class="su-lbl">유형 선택</span></span></li><li><span class="su-st is-done"><span class="su-dot" aria-hidden="true"><svg width="16" height="16" viewBox="0 0 24 24" aria-hidden="true"><path d="m5 12.5 4.5 4.5L19 7" fill="none" stroke="currentColor" stroke-width="3.5" stroke-linecap="round" stroke-linejoin="round"/></svg></span><span class="su-lbl">정보 입력</span></span></li><li><span class="su-st is-done"><span class="su-dot" aria-hidden="true"><svg width="16" height="16" viewBox="0 0 24 24" aria-hidden="true"><path d="m5 12.5 4.5 4.5L19 7" fill="none" stroke="currentColor" stroke-width="3.5" stroke-linecap="round" stroke-linejoin="round"/></svg></span><span class="su-lbl">휴대폰 확인</span></span></li><li><span class="su-st" aria-current="step"><span class="su-dot" aria-hidden="true">4</span><span class="su-lbl">채널 확인</span></span></li><li><span class="su-st"><span class="su-dot" aria-hidden="true">5</span><span class="su-lbl">승인 서명</span></span></li></ol></nav><form class="card" onsubmit="return false"><fieldset class="su-step"><legend class="sr-only">채널 소유자 확인</legend><div class="vp-head"><h2 class="t-card">채널 소유자 확인</h2><span class="tag tag--danger">반려</span></div><div class="vp-box" style="margin-bottom:24px"><p class="vp-rej"><svg width="20" height="20" viewBox="0 0 24 24" aria-hidden="true"><circle cx="12" cy="12" r="10" fill="none" stroke="currentColor" stroke-width="2"/><path d="M12 7v6M12 16.5v.5" stroke="currentColor" stroke-width="2.4" stroke-linecap="round"/></svg>팬꾹 링크를 찾지 못함</p><p class="sub">남은 요청 횟수: 2회</p></div><div class="vp-kv v-name"><span class="k">채널 이름</span><strong>하루의 놀이터</strong></div><div class="v-step"><p class="vp-label"><span class="v-no">1</span>채널 소개에 팬꾹 링크를 올려 주세요</p><div class="vp-box"><div class="vp-code-row"><span class="vp-link">fankkuk.com/haru</span><button class="btn btn--line btn--sm" type="button">복사</button></div><div class="v-example"><span class="k">예시</span><p>게임 방송하는 하루입니다. 선물은 여기로 보내 주세요<br><b>fankkuk.com/haru</b></p></div></div></div><div class="v-step"><label class="vp-label" for="a4"><span class="v-no">2</span>팬꾹 링크를 올린 채널 주소를 입력해 주세요</label><input class="field" id="a4" inputmode="url" placeholder="https://www.youtube.com/@핸들" value="https://www.youtube.com/@honeypot"><ul class="vp-examples"><li>유튜브 <code>https://www.youtube.com/@핸들</code></li><li>치지직 <code>https://chzzk.naver.com/채널ID</code></li><li>SOOP <code>https://www.sooplive.co.kr/station/아이디</code></li></ul></div><div class="vp-steps"><button class="btn" type="button">다시 채널 확인 요청</button></div></fieldset><div class="v-kakao-actions v-three"><button class="btn btn--line" type="button">이전</button><button class="btn btn--line" type="button">나중에 하기</button><button class="btn su-next v-main" type="submit" aria-disabled="true">다음</button></div></form></div></section></main></section>
+<section class="v-state" id="s4-locked"><span class="v-label"><b>4단계 · 더 요청 못 함</b> — 같은 채널로 끝난 요청 3번</span><div class="v-bar"><b>팬꾹</b><span>로그인</span></div><main><section class="su-page"><div class="container auth su-box"><div class="head"><h1 class="t-title">회원가입</h1></div><nav class="su-steps-wrap" aria-label="가입 단계"><ol class="su-steps su-four"><li><span class="su-st is-done"><span class="su-dot" aria-hidden="true"><svg width="16" height="16" viewBox="0 0 24 24" aria-hidden="true"><path d="m5 12.5 4.5 4.5L19 7" fill="none" stroke="currentColor" stroke-width="3.5" stroke-linecap="round" stroke-linejoin="round"/></svg></span><span class="su-lbl">유형 선택</span></span></li><li><span class="su-st is-done"><span class="su-dot" aria-hidden="true"><svg width="16" height="16" viewBox="0 0 24 24" aria-hidden="true"><path d="m5 12.5 4.5 4.5L19 7" fill="none" stroke="currentColor" stroke-width="3.5" stroke-linecap="round" stroke-linejoin="round"/></svg></span><span class="su-lbl">정보 입력</span></span></li><li><span class="su-st is-done"><span class="su-dot" aria-hidden="true"><svg width="16" height="16" viewBox="0 0 24 24" aria-hidden="true"><path d="m5 12.5 4.5 4.5L19 7" fill="none" stroke="currentColor" stroke-width="3.5" stroke-linecap="round" stroke-linejoin="round"/></svg></span><span class="su-lbl">휴대폰 확인</span></span></li><li><span class="su-st" aria-current="step"><span class="su-dot" aria-hidden="true">4</span><span class="su-lbl">채널 확인</span></span></li><li><span class="su-st"><span class="su-dot" aria-hidden="true">5</span><span class="su-lbl">승인 서명</span></span></li></ol></nav><form class="card" onsubmit="return false"><fieldset class="su-step"><legend class="sr-only">채널 소유자 확인</legend><div class="vp-head"><h2 class="t-card">채널 소유자 확인</h2><span class="tag ">신청 마감</span></div><div class="vp-box"><p class="vp-label">이 채널로는 더 신청할 수 없어요. 1:1 문의로 알려 주세요</p><div><button class="btn btn--line" type="button">1:1 문의</button></div></div></fieldset><div class="v-kakao-actions v-three"><button class="btn btn--line" type="button">이전</button><button class="btn btn--line" type="button">나중에 하기</button><button class="btn su-next v-main" type="submit" aria-disabled="true">다음</button></div></form></div></section></main></section>
+<section class="v-state" id="acct-verified"><span class="v-label"><b>계정 설정 · 확인 완료</b> — 다음 재확인 날</span><div class="v-bar"><b>팬꾹</b><span>로그인</span></div><main><div class="v-wrap720"><div class="head" style="margin-bottom:24px"><h1 class="t-title">계정 설정</h1></div><section class="card"><fieldset class="su-step" style="margin:0"><legend class="sr-only">채널 소유자 확인</legend><div class="vp-head"><h2 class="t-card">채널 소유자 확인</h2><span class="tag tag--success">확인 완료</span></div><div class="vp-done"><strong>유튜브 채널 소유자로 확인되었습니다 · 2026.11.02</strong><a href="#">https://www.youtube.com/@honeypot</a><span class="sub">다음 재확인 2027.01.31</span></div><div style="margin-top:16px"><button class="btn btn--line" type="button">채널 이사</button></div></fieldset></section></div></main></section>
+<section class="v-state" id="acct-recheck"><span class="v-label"><b>계정 설정 · 링크 다시 확인</b> — 재확인에서 링크를 못 찾음(14일 유예)</span><div class="v-bar"><b>팬꾹</b><span>로그인</span></div><main><div class="v-wrap720"><div class="head" style="margin-bottom:24px"><h1 class="t-title">계정 설정</h1></div><section class="card"><fieldset class="su-step" style="margin:0"><legend class="sr-only">채널 소유자 확인</legend><div class="vp-head"><h2 class="t-card">채널 소유자 확인</h2><span class="tag tag--warn">링크 확인 필요</span></div><div class="vp-box"><p class="vp-label">채널 소개에서 팬꾹 링크를 찾지 못했어요. 11월 16일까지 다시 올려 주세요</p><div class="vp-code-row"><span class="vp-link">fankkuk.com/haru</span><button class="btn btn--line btn--sm" type="button">복사</button></div><div class="vp-actions"><button class="btn" type="button">다시 채널 확인 요청</button></div></div></fieldset></section></div></main></section>
+<section class="v-state" id="profile-verifying"><span class="v-label"><b>크리에이터 페이지 · 채널 확인 중 (fankkuk.com/haru)</b> — 채널 확인 중 — 팬이 볼 때. 팔로우·채널 아이콘·평균 승인 시간 없음</span><div class="v-bar"><b>팬꾹</b><span>로그인</span></div><main class="pf"><div class="pf-cover" aria-hidden="true"><i class="b"></i><i class="a"></i></div><div class="pf-body"><div class="pf-face"><img src="../part4-v4-20261101/assets/creator-cat.webp" alt="" width="112" height="112"></div><div class="pf-name"><h1>하루</h1></div><p class="pf-intro">게임 방송을 해요.</p><p class="pf-wait" role="status">채널 확인이 끝나면 선물을 보낼 수 있어요</p></div></main></section>
 </body></html>

diff --git a/projects/fankkuk/docs/DECISIONS.md b/projects/fankkuk/docs/DECISIONS.md
@@ -1392,3 +1392,4 @@ Vite SPA 기각 — 서버 일을 Supabase 함수로 떼어 원본 흐름을 다
 - 「공개 이름」과 「닉네임」을 합친다 — 사용자 「닉네임이랑 공개이름이랑 그냥 같다고 보면 될거 같은데 왜 나눠?」 → 「응 합치고, 닉네임, 채널이름이라고 해」. 따로 둔 근거는 없었다(크리에이터 페이지를 먼저 만들고 계정 닉네임이 나중에 들어와 둘이 남음). 이름은 「닉네임」·「채널 이름」 둘. 채널 확인 작업 다음 작업으로 한다(데이터 옮기기·이름 바꾸기 기록 합치기·읽는 화면 바꾸기). 길이는 닉네임 12자 그대로 — 사용자 「닉네임은 12자로 말하는게 맞지」, 12자를 넘는 기존 공개 이름은 합칠 때 따로 처리.
 - 칸 설명(무엇에 쓰는 칸인지)은 입력 칸 아래가 아니라 **소제목(라벨) 바로 아래, 입력 칸 위**에 둔다. 꼴 규칙·실시간 안내는 지금처럼 입력 칸 아래 — 사용자 「input 박스 아래에 있는데 그러지 말고, 아이디라는 소제목 아래로 옮겨. 지금 위치는 부적절하잖아. 닉네임이랑 채널이름도 마찬가지로」.
 - 시안 정정: 채널 확인 시안이 37절(가입 카드 480) 이전의 옛 가입 시안 값(640)을 복사해 칸·버튼이 길었다(사용자 「input 박스가 쓸대 없이 길다」) — 480·칸 48·다섯 단계 표시·4단계 버튼 줄을 37절 값으로 맞춤.
+- 같은 날 고침(사용자 「2단계에서 채널링크를 이미 작성했는데, 왜 채널 소유자 확인단계에서 내 팬꾹 링크가 또 있냐고 … 둘중 하나만 있어야지」): 팬꾹 링크는 가입 4단계(채널 확인)에서만 만든다 — 쓰는 자리(채널 소개에 올리기) 바로 앞이라. 가입 2단계의 팬꾹 링크 칸은 뺀다. 4단계 순서: 채널 이름(2단계 값) → ① 팬꾹 링크 만들기(만들면 「올려 주세요 + 복사 + 예시」로 바뀜) → ② 링크를 올린 채널 주소 → 「채널 확인 요청」 → 요청 완료(「운영자가 채널을 확인하면 채널 확인이 완료됩니다.」, 「이전 | 다음」). 시안은 옛 구역 없이 새로 짬.
